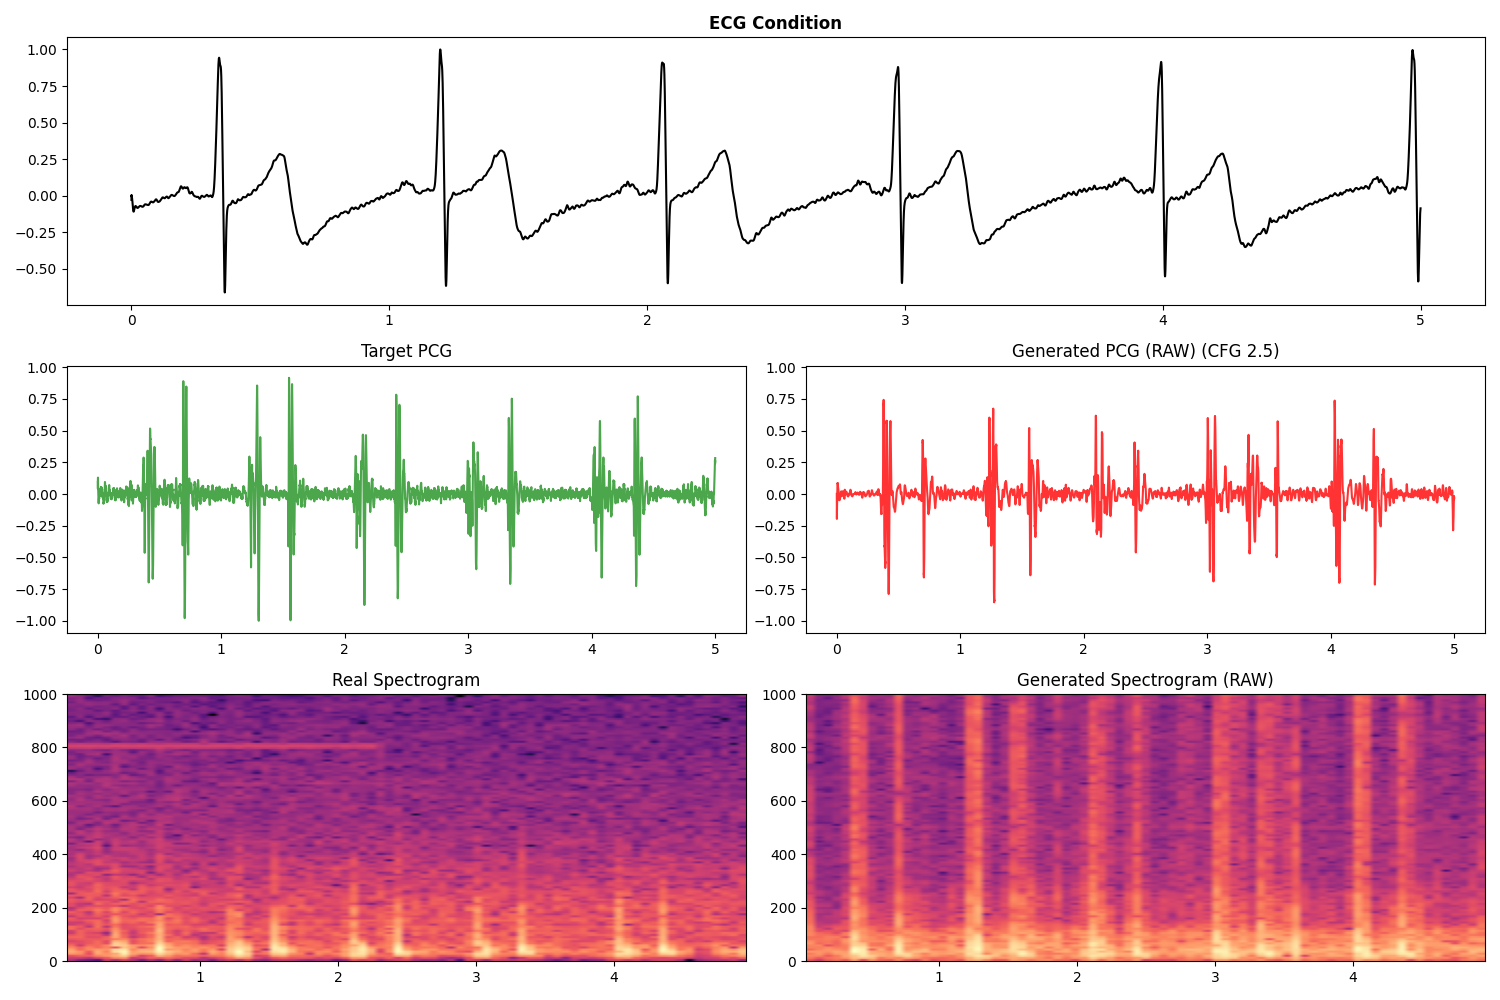
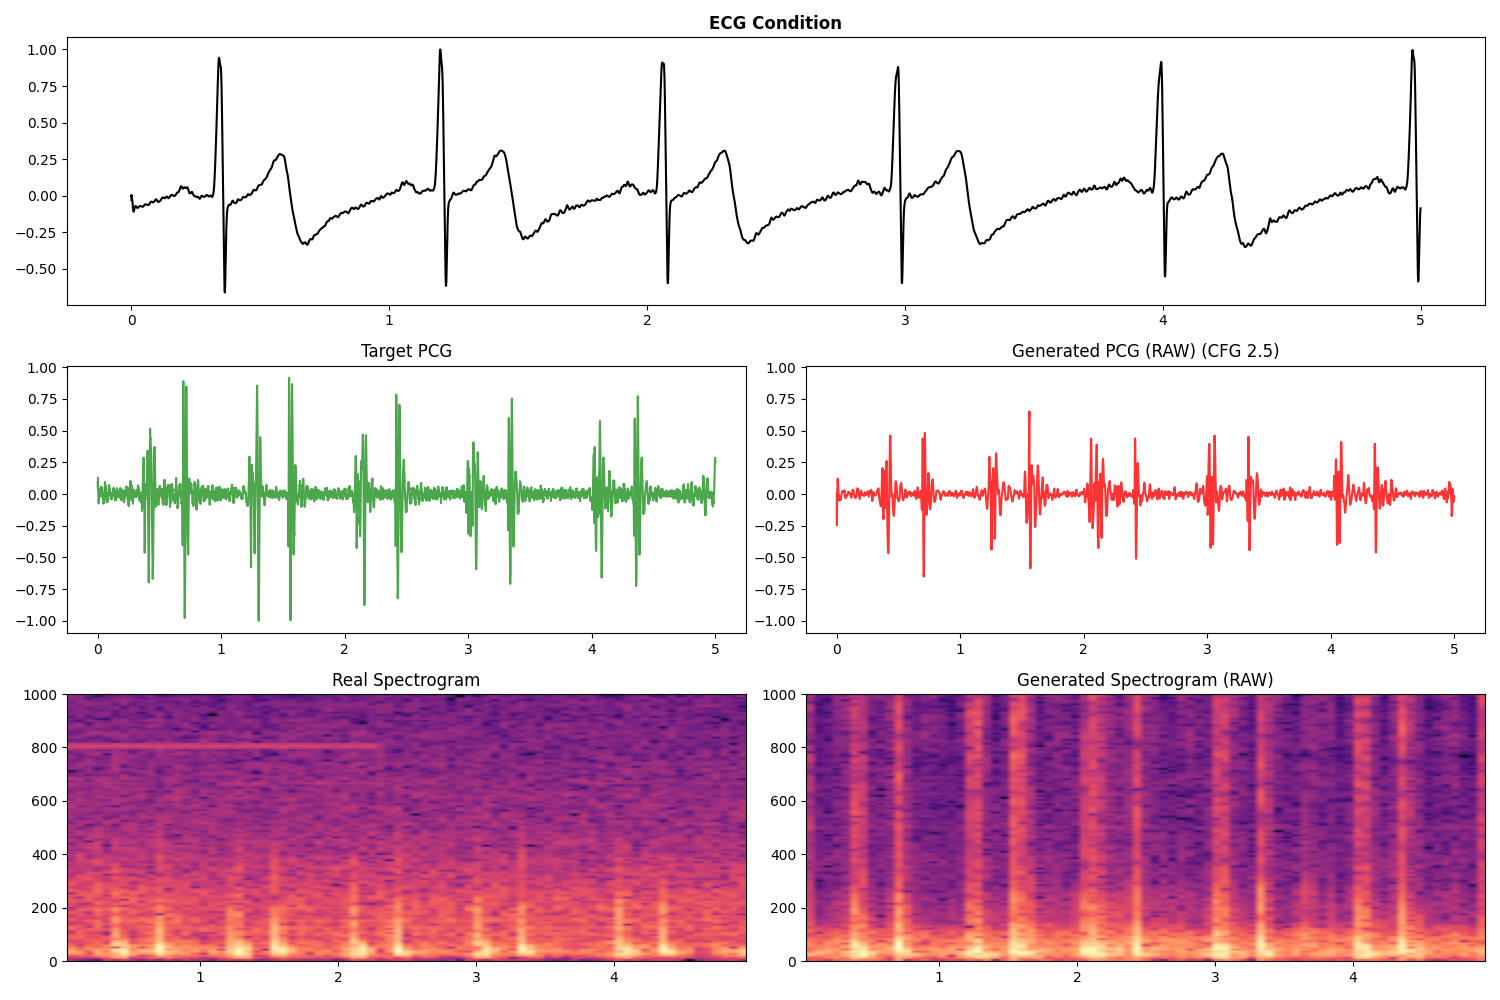
Sum of embeddings added

Changed region(s): [[0.5213, 0.682, 1.0, 0.961], [0.552, 0.403, 0.9813, 0.589]]

diff --git a/src/models.py b/src/models.py
@@ -156,9 +156,12 @@ class TBlock(nn.Module):
         return x
 
 class FlowTransformer(nn.Module):
-    def __init__(self, in_channels=32, hidden_size=256, depth=8, num_heads=4):
+    def __init__(self, in_channels=16, ecg_channels=16, hidden_size=256, depth=8, num_heads=4):
         super().__init__()
-        self.input_proj = nn.Conv1d(in_channels, hidden_size, kernel_size=1)
+        
+        self.audio_proj = nn.Conv1d(in_channels, hidden_size, kernel_size=1)
+        self.ecg_proj = nn.Conv1d(ecg_channels, hidden_size, kernel_size=1)
+        
         self.time_embedder = nn.Sequential(
             nn.Linear(hidden_size, hidden_size),
             nn.SiLU(),
@@ -189,11 +192,14 @@ class FlowTransformer(nn.Module):
         embedding = torch.cat([torch.cos(args), torch.sin(args)], dim=-1)
         return embedding
         
-    def forward(self, x, t, return_attn=False):
-        t_emb = self.timestep_embedding(t, self.input_proj.out_channels)
+    def forward(self, x, t, c_ecg, return_attn=False):
+        t_emb = self.timestep_embedding(t, self.audio_proj.out_channels)
         t_cond = self.time_embedder(t_emb)
 
-        h = self.input_proj(x).transpose(1, 2)
+        h_audio = self.audio_proj(x).transpose(1, 2)
+        h_ecg = self.ecg_proj(c_ecg).transpose(1, 2)
+        h = h_audio + h_ecg
+        
         h = h + self.pos_embedding
 
         for block in self.blocks:

diff --git a/generate.py b/generate.py
@@ -33,7 +33,7 @@ def generate_pcg():
 
     # Load ECG Encoder and Transformer
     ecg_encoder = Encoder1D(in_channels=1, base_channels=32, z_dim=16).to(device)
-    transformer = FlowTransformer(in_channels=32, 
+    transformer = FlowTransformer(in_channels=16, ecg_channels=16, 
                 hidden_size=cfg_models["rf"]["hidden_size"], 
                 depth=cfg_models["rf"]["depth"], 
                 num_heads=cfg_models["rf"]["num_heads"]).to(device)
@@ -76,8 +76,8 @@ def generate_pcg():
             cond_doubled = torch.cat([cond, uncond], dim=0)
             t_doubled = torch.full((B * 2,), t_val, device=device)
 
-            model_in = torch.cat([z_doubled, cond_doubled], dim=1)
-            v_pred_doubled = transformer(model_in, t_doubled)
+        
+            v_pred_doubled = transformer(x=z_doubled, t=t_doubled, c_ecg=cond_doubled)
 
             v_cond, v_uncond = v_pred_doubled.chunk(2, dim=0)
 

diff --git a/src/cfg_scale_ablation.py b/src/cfg_scale_ablation.py
@@ -27,7 +27,7 @@ def run_evaluation_tests(steps, scale):
     
     ecg_encoder = Encoder1D(in_channels=1, base_channels=32, z_dim=16).to(device)
     transformer = FlowTransformer(
-        in_channels=32, 
+        in_channels=16, ecg_channels=16,
         hidden_size=cfg_models["rf"]["hidden_size"], 
         depth=cfg_models["rf"]["depth"], 
         num_heads=cfg_models["rf"]["num_heads"]
@@ -65,7 +65,7 @@ def run_evaluation_tests(steps, scale):
                 t = torch.full((B*2,), i/steps, device=device)
                 z_in = torch.cat([z, z], dim=0)
                 c_in = torch.cat([cond, uncond], dim=0)
-                v_pred = transformer(torch.cat([z_in, c_in], dim=1), t)
+                v_pred = transformer(x=z_in, t=t, c_ecg=c_in)
                 v_c, v_u = v_pred.chunk(2)
                 v = v_u + scale * (v_c - v_u)
                 z = z + v * dt
@@ -109,7 +109,7 @@ if __name__ == "__main__":
         }
         final_results.append(res)
 
-        pd.DataFrame(final_results).to_csv("cfg_scale_results/scale_metrics.csv", index=False)
+        pd.DataFrame(final_results).to_csv("cfg_scale_results/scale_metrics_2.csv", index=False)
     
     print("\nCFG Scale test finished")
         

diff --git a/src/train_flow.py b/src/train_flow.py
@@ -44,8 +44,7 @@ def train_flow():
     print(f"Mean: {STATS_MEAN:.4f} | Std: {STATS_STD:.4f}")
 
     ecg_encoder = Encoder1D(in_channels=1, base_channels=32, z_dim=16).to(Config.DEVICE)
-    transformer = FlowTransformer(in_channels=32, hidden_size=256, depth=8, num_heads=4).to(Config.DEVICE)
-
+    transformer = FlowTransformer(in_channels=16, ecg_channels=16, hidden_size=256, depth=8, num_heads=4).to(Config.DEVICE)
     optimizer = optim.AdamW(
         list(ecg_encoder.parameters()) + list(transformer.parameters()), 
         lr=5e-5, weight_decay=1e-4
@@ -88,8 +87,7 @@ def train_flow():
             target_v = z1 - z0
             
 
-            model_in = torch.cat([z_t, cond_ecg], dim=1)
-            pred_v = transformer(model_in, t)
+            pred_v = transformer(x=z_t, t=t, c_ecg=cond_ecg)
             
             loss = F.mse_loss(pred_v, target_v)
             loss.backward()